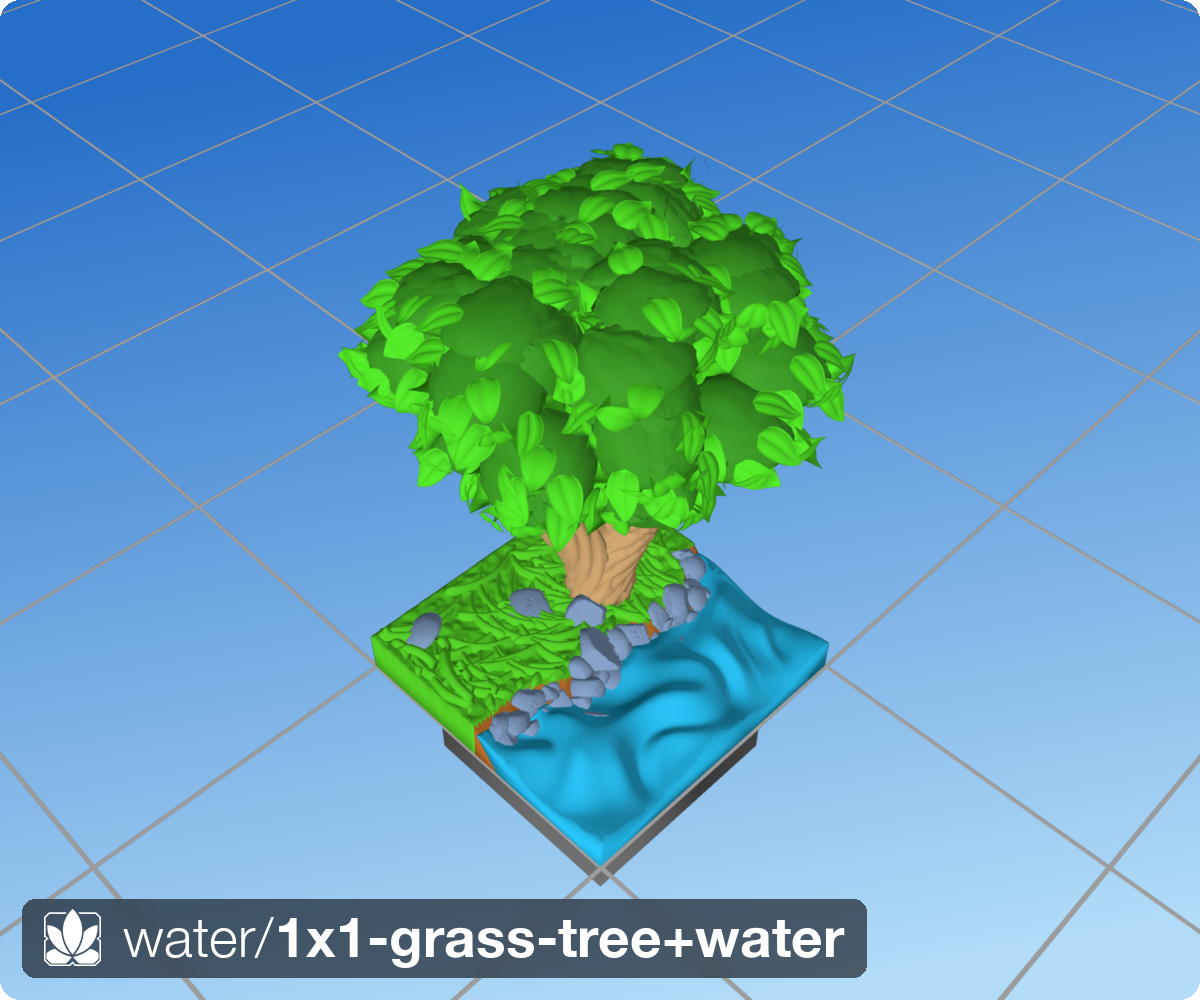
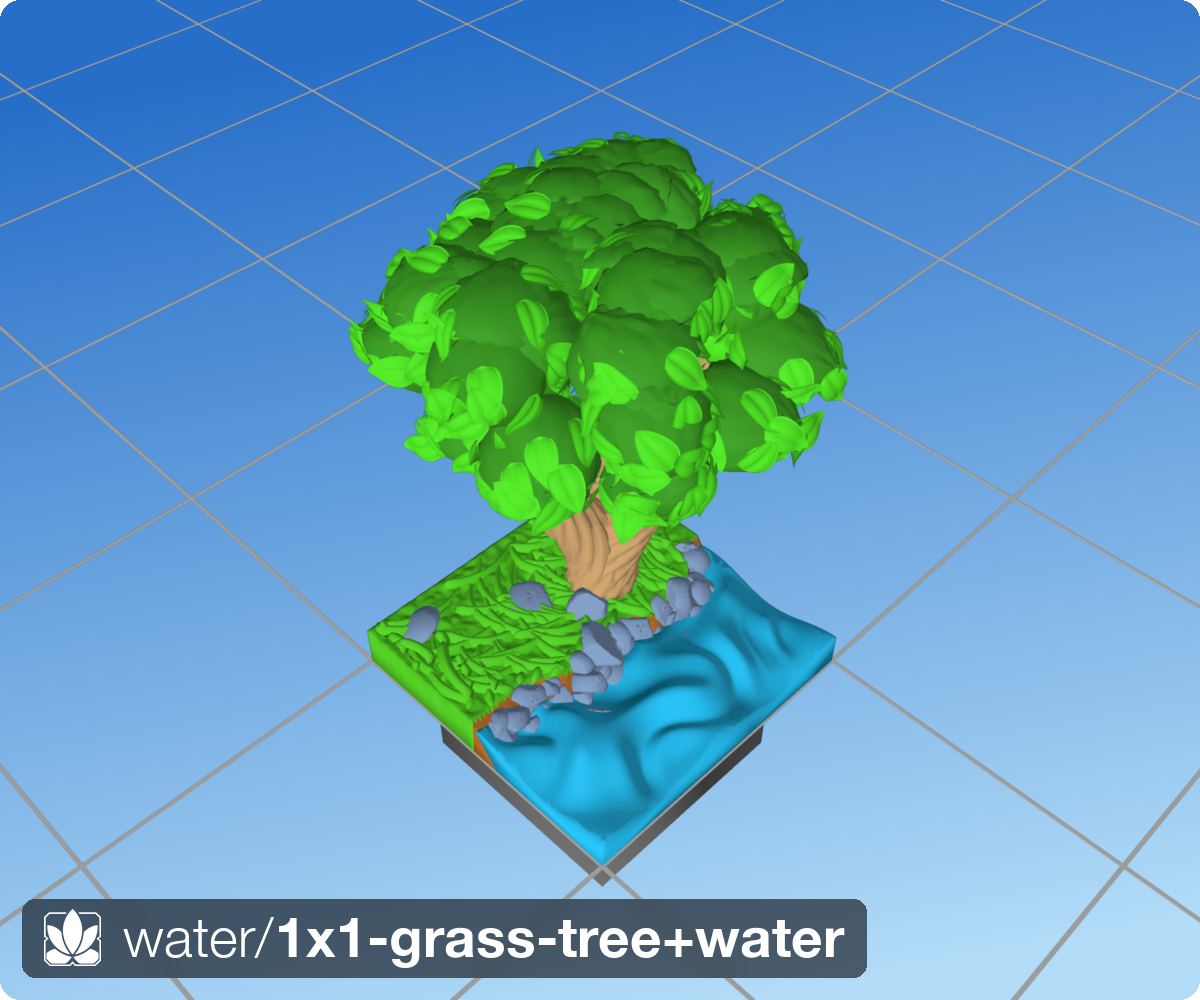
Greedy: construct leaf from two embedded mesh points (equidistant ends)
Replace the contact-angle lean with the direct construction the user
described. Per leaf:

1. Two mesh footprint points — the base end (candidate) and the tip end
   (surface point under base + L·horizontal). Each is dropped embed below
   the surface along its LOCAL normal to give the root oval's two axial
   ends (ob, ot). Both are embedded by the same amount, so they are
   equidistant from the surface.
2. The oval axis runs ob→ot (follows the surface); the oval/leaf normal N
   is the average surface normal made perpendicular to that axis.
3. The flat oval spans ob→ot with the leaf's width profile.
4. The leaf surface is built on the SAME normal N, one embed+protrusion
   step out — so its ends inherit the oval's equidistance. The build frame
   is additionally tilted down by the leaf's own intrinsic tip-rise angle
   (measured once) so the curled tip lands level with the base instead of
   floating up.

Result (two-cluster): oval ends equidistant to ~0.1mm; leaf-surface base
vs tip within ~0.8mm (residual is surface curvature a rigid leaf can't
follow). Leaves lie flat against the clumps like scales.

Removed the contact-angle / belly-dip machinery and the per-mesh
ProximityQuery list. Tests pass (watertight / root-connected /
blade-clear-of-mesh 43/43). Tile leaf placement ~3.7s, Tree ~8.8s.

diff --git a/src/dharmatiles/trees/placement_greedy.py b/src/dharmatiles/trees/placement_greedy.py
@@ -47,6 +47,7 @@ from ._utils import _hash01, _safe_norm
 from .leaf import (
     _LEAF_N_LAT,
     _LEAF_N_LONG,
+    _leaf_width_profile,
     build_leaf_surface,
     solidify_leaf,
 )
@@ -111,45 +112,65 @@ def _points_inside_any(meshes: list, pts: np.ndarray, near_pt: np.ndarray, reach
     return False
 
 
-# ── Root oval, tilted to the local surface ────────────────────────────────────
+# ── Leaf frame + root oval from two embedded mesh points ──────────────────────
 
-def _oval_tilted_to_mesh(
-    P: np.ndarray, T_along: np.ndarray, across: np.ndarray,
-    L: float, W: float, mesh: trimesh.Trimesh, embed_mm: float,
-) -> np.ndarray:
-    """Flat root-oval vertices (world), with the oval axis tilted to the surface.
+def _leaf_frame_and_oval(
+    P0: np.ndarray, n0: np.ndarray, t_horiz: np.ndarray,
+    L: float, W: float, embed_mm: float, protrusion_mm: float,
+    mesh: trimesh.Trimesh,
+):
+    """Build the leaf frame and its flat root oval from two mesh footprint points.
 
-    Same 123-vertex layout as :func:`leaf.build_leaf_oval_offsets` (so
-    :func:`leaf.solidify_leaf` can skin the blade rim to it 1:1), but instead of
-    embedding the oval a fixed depth along a single base normal, the oval's two
-    axial ends (at 0.5·L and L along the growth direction) are set from the
-    distance to the mesh: each end is placed ``embed_mm`` below its nearest
-    surface point along that point's LOCAL normal.  The flat oval spanning the two
-    embedded ends therefore lies roughly parallel to — i.e. plugs in normal to —
-    the foliage surface at that point.
+    The whole leaf is defined by two surface points — the base-end ``P0`` (the
+    candidate) and the tip-end (the surface point under ``P0 + L·t_horiz``).  Each
+    is dropped ``embed_mm`` inside along its LOCAL surface normal to give the
+    oval's two axial ends (``ob``, ``ot``).  The oval axis runs between them (so it
+    follows the surface), and the oval/leaf normal ``N`` is that average surface
+    normal made perpendicular to the axis.  Because both ends are embedded by the
+    same amount, they are equidistant from the surface — and the leaf surface,
+    built one ``embed+protrusion`` step out along the same ``N``, inherits that
+    equidistance for free.
+
+    Returns ``(surf_base, axis, N, lat, inner_v)`` where ``inner_v`` is the
+    123-vertex oval (same layout as the leaf surface, for :func:`solidify_leaf`),
+    or ``None`` if the frame is degenerate.
     """
-    ring_count = _LEAF_N_LONG - 1        # 11 interior rings
-    lat_count = _LEAF_N_LAT              # 10
-    s_int = np.linspace(0.0, 1.0, _LEAF_N_LONG + 1)[1:-1]   # (ring_count,)
-    lat_pos = np.linspace(-1.0, 1.0, lat_count + 1)          # (lat_count+1,)
-    oval_hw = (W / 4.0) * np.sin(np.pi * s_int)              # (ring_count,)
+    P1, _, tri = trimesh.proximity.closest_point(mesh, (P0 + L * t_horiz)[np.newaxis])
+    P1 = P1[0]
+    n1 = mesh.face_normals[int(tri[0])]
 
-    # Axial ends at the surface level, then dropped embed below the local surface.
-    ends = np.array([P + 0.5 * L * T_along, P + L * T_along])
-    H, _, tri = trimesh.proximity.closest_point(mesh, ends)
-    nrm = mesh.face_normals[np.asarray(tri, dtype=np.int64)]
-    e_base = H[0] - embed_mm * nrm[0]
-    e_tip  = H[1] - embed_mm * nrm[1]
+    ob = P0 - embed_mm * n0        # oval base end, embed_mm below the surface
+    ot = P1 - embed_mm * n1        # oval tip  end, embed_mm below the surface
+    av = ot - ob
+    D = float(np.linalg.norm(av))
+    if D < 1e-6:
+        return None
+    axis = av / D
+    navg = _safe_norm(n0 + n1)
+    N = _safe_norm(navg - float(np.dot(navg, axis)) * axis)   # oval normal ⟂ axis
+    lat = np.cross(N, axis)
+    ll = float(np.linalg.norm(lat))
+    if ll < 1e-6:
+        return None
+    lat = lat / ll
 
-    centers = e_base[np.newaxis] + s_int[:, np.newaxis] * (e_tip - e_base)[np.newaxis]
+    # Flat oval spanning ob→ot with the leaf's own width profile, so it underlies
+    # the blade outline.  Same layout as the leaf surface for the 1:1 skin.
+    s_int = np.linspace(0.0, 1.0, _LEAF_N_LONG + 1)[1:-1]     # (ring_count,)
+    lat_pos = np.linspace(-1.0, 1.0, _LEAF_N_LAT + 1)          # (lat_count+1,)
+    w_s = 0.5 * W * _leaf_width_profile(s_int)                 # (ring_count,)
+    centers = ob[np.newaxis] + s_int[:, np.newaxis] * av[np.newaxis]
     grid = (
         centers[:, np.newaxis, :]
-        + (lat_pos[np.newaxis, :, np.newaxis] * oval_hw[:, np.newaxis, np.newaxis])
-        * across[np.newaxis, np.newaxis, :]
-    )   # (ring_count, lat_count+1, 3)
-    return np.concatenate([
-        grid.reshape(-1, 3), e_base[np.newaxis], e_tip[np.newaxis],
-    ], axis=0)
+        + (lat_pos[np.newaxis, :, np.newaxis] * w_s[:, np.newaxis, np.newaxis])
+        * lat[np.newaxis, np.newaxis, :]
+    )
+    inner_v = np.concatenate([grid.reshape(-1, 3), ob[np.newaxis], ot[np.newaxis]], axis=0)
+
+    # Leaf surface base: one embed+protrusion step out along N (⇒ protrusion above
+    # the surface), so the blade is built on the same normal as the oval.
+    surf_base = ob + (embed_mm + protrusion_mm) * N
+    return surf_base, axis, N, lat, inner_v
 
 
 # ── Candidate generation ──────────────────────────────────────────────────────
@@ -305,10 +326,10 @@ def place_leaves_greedy(
     col_step = max(W, 1e-3)
     expected_row_step = max(L * 0.5, 1e-3)
 
-    # The greedy placer seats leaves flat against the surface (belly on the
-    # surface) and lifts them only as much as clearing obstacles requires.  The
-    # leaf `lift_mm` rigid tip-rotation is an unconditional up-angle on top of
-    # that, so it is disabled here: greedy leaves have no default angling.
+    # The greedy placer seats leaves flat against the surface via the frame
+    # construction (equidistant oval ends → equidistant leaf ends).  The leaf
+    # `lift_mm` rigid tip-rotation is an extra up-angle on top of that, so it is
+    # disabled here: greedy leaves have no default angling.
     del lift_mm
     leaf_kw = dict(
         length_mm      = L,
@@ -320,6 +341,16 @@ def place_leaves_greedy(
         curl_deg       = float(curl_deg),
         lift_mm        = 0.0,
     )
+    # The leaf's arch+curl raises its tip endpoint above the base plane by a fixed
+    # angle (same for every leaf of these params).  Measure it once so the build
+    # frame can be tilted down by it — then the built tip lands level with the
+    # base, i.e. base and tip end up equidistant from the surface.
+    _ref, _ = build_leaf_surface(
+        base_pos=np.zeros(3), tangent=np.array([1.0, 0.0, 0.0]),
+        up_hint=np.array([0.0, 0.0, 1.0]), seed=0, **leaf_kw,
+    )
+    _reftip = _ref.vertices[len(_ref.vertices) - 1]
+    tip_rise_angle = math.atan2(float(_reftip[2]), float(_reftip[0]))
 
     t_total = time.perf_counter()
 
@@ -391,26 +422,46 @@ def place_leaves_greedy(
             continue
 
         lseed = int(_hash01_int(int(seeds_list[mi]), "greedy-leaf", cand.idx))
-        tangent = T0
+        T0 = cand.tangent          # horizontal-outward growth (footprint direction)
         # Optional azimuthal jitter of the growth direction about the normal.
         if angle_jitter_deg != 0.0:
             theta = math.radians(angle_jitter_deg) * (
                 _hash01(int(seeds_list[mi]), "greedy-ang", cand.idx) * 2.0 - 1.0
             )
             ct, st = math.cos(theta), math.sin(theta)
-            tangent = _safe_norm(tangent * ct + np.cross(normal, tangent) * st)
-        lat = np.cross(normal, tangent)
-        _ll = float(np.linalg.norm(lat))
-        lat = lat / _ll if _ll > 1e-6 else lat
+            T0 = _safe_norm(T0 * ct + np.cross(normal, T0) * st)
+
+        # Frame + root oval from two embedded mesh points (base end + tip end).
+        # Both oval ends sit embed below the surface, so they are equidistant from
+        # it; the leaf normal N is perpendicular to the axis between them.
+        frame = _leaf_frame_and_oval(
+            base, normal, T0, L, W, _GREEDY_EMBED_MM, _PROTRUSION_MM, meshes[mi],
+        )
+        if frame is None:
+            stats.build_errors += 1
+            continue
+        surf_base, axis, N_oval, lat, inner_v = frame
+
+        # Guard: both oval ends must be inside the clump (a thin spot where the
+        # embed punches through the far side would print detached).
+        if not bool(meshes[mi].contains(inner_v[[-2, -1]]).all()):
+            n_rejected_buried += 1
+            stats.skipped_cross_buried += 1
+            continue
 
         stats.n_attempted += 1
 
-        # ── Build the leaf solid ─────────────────────────────────────────────
-        # Blade a fixed protrusion OUTSIDE the surface (no contact lean, no lift).
-        base_blade = base + _PROTRUSION_MM * normal
+        # Leaf surface: built on the SAME normal N as the oval, one protrusion
+        # above the surface.  The build frame is tilted DOWN by the leaf's
+        # intrinsic tip-rise angle so the curled tip lands level with the base —
+        # base and tip then sit equidistant above the surface (mirroring the
+        # equidistant oval ends below it).
+        _c, _s = math.cos(tip_rise_angle), math.sin(tip_rise_angle)
+        tangent_leaf = _safe_norm(axis * _c - N_oval * _s)
+        up_leaf = _safe_norm(N_oval * _c + axis * _s)
         try:
             surf, _geom = build_leaf_surface(
-                base_pos=base_blade, tangent=tangent, up_hint=normal,
+                base_pos=surf_base, tangent=tangent_leaf, up_hint=up_leaf,
                 seed=lseed, **leaf_kw,
             )
         except (RuntimeError, ValueError):
@@ -432,15 +483,6 @@ def place_leaves_greedy(
             stats.skipped_cross_buried += 1
             continue
 
-        # Root oval a fixed embed INSIDE the surface, axis tilted normal to the
-        # local foliage surface (ends set from distance to the mesh).
-        inner_v = _oval_tilted_to_mesh(base, tangent, lat, L, W, meshes[mi], _GREEDY_EMBED_MM)
-        # Guard: the two oval ends must actually be inside the clump (a thin spot
-        # where the embed punches through the far side would print detached).
-        if not bool(meshes[mi].contains(inner_v[[-2, -1]]).all()):
-            n_rejected_buried += 1
-            stats.skipped_cross_buried += 1
-            continue
         try:
             solid, _ = solidify_leaf(surf, inner_v)
         except (RuntimeError, ValueError):
@@ -451,7 +493,7 @@ def place_leaves_greedy(
         root_grid.add(_root_cell(base, gap))
         row_idx = int((float(base[2]) - z_mins[mi]) / expected_row_step)
         stats.base_positions.append(base.copy())
-        stats.base_tangents.append(tangent.copy())
+        stats.base_tangents.append(axis.copy())
         stats.base_row_idx.append(row_idx)
         stats.root_depths.append(_GREEDY_EMBED_MM)
         stats.leaf_float_dists.append(0.0)
